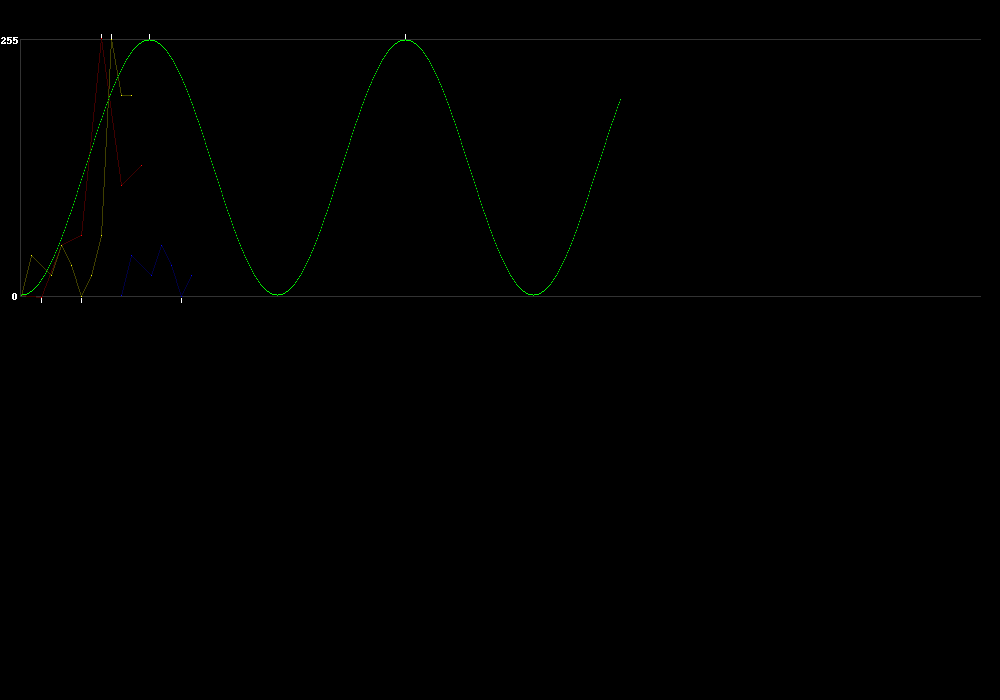
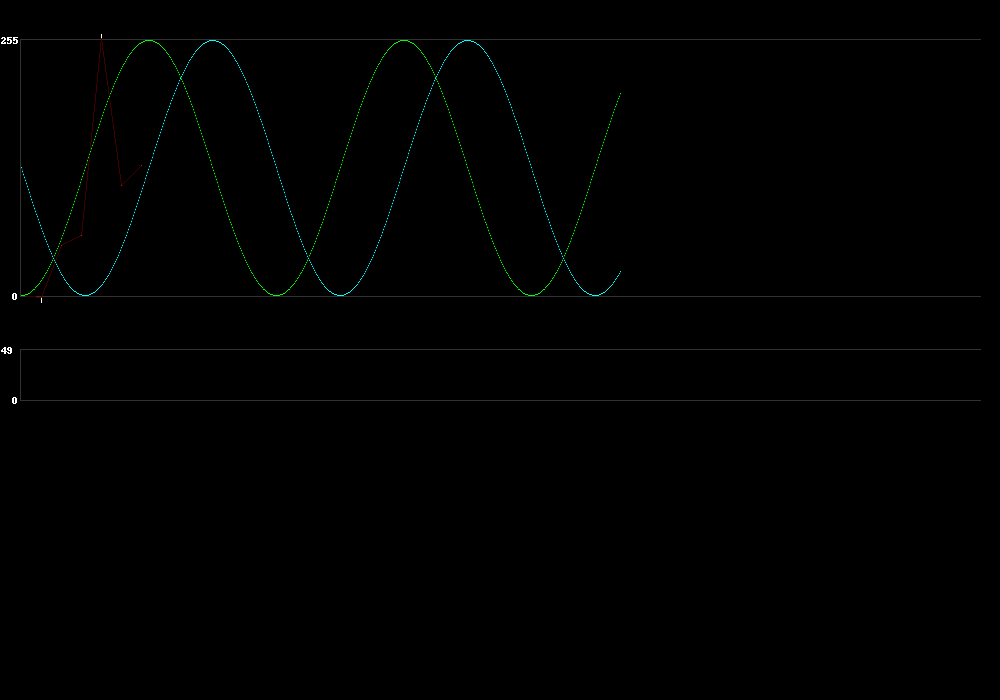
Drawing library rewrited with object oriented

Changed region(s): [[0.031, 0.36, 0.062, 0.39]]

diff --git a/main.py b/main.py
@@ -1,6 +1,7 @@
 from ctypes import *
 
 import neopixel_image
+from neopixel import *
 import math
 
 #bool_ 	Boolean (True or False) stored as a byte
@@ -50,17 +51,21 @@ def qadd7(i, j):
         t = 127;
     return t;
 
-print (qadd8(255, 5));
-i = c_ushort(-3);
-print (i);
+#print (qadd8(255, 5));
+#i = c_ushort(-3);
+#print (i);
 
 
 def cos8(value):
-  return int(math.cos(float(value)/128*math.pi+math.pi)*128)+128
-#return int(math.cos(float(value)/128))
+  return int(round(math.cos(float(value)/127.5*math.pi+math.pi)*127.5+127.5))
 
 def sin8(value):
-  return int(math.sin(float(value)/128*math.pi+math.pi)*128)+128
+  return int(round(math.sin(float(value)/127.5*math.pi+math.pi)*127.5+127.5))
+
+def RGBColor(r, g, b):
+        return Color(r, g, b)
+
+stripLen = 50
 
 ax = neopixel_image.Axis(256, 40)
 
@@ -73,36 +78,15 @@ pixR.putPixelCoord((80, 257))
 pixR.putPixelCoord((100, 110))
 pixR.putPixelCoord((120, 130))
 
-pixG = neopixel_image.Graph(ax, (255, 255, 0))
-pixG.putPixelCoord((0, 0))
-pixG.putPixelCoord((10, 40))
-pixG.putPixelCoord((30, 20))
-pixG.putPixelCoord((40, 50))
-pixG.putPixelCoord((50, 30))
-pixG.putPixelCoord((60, -1))
-pixG.putPixelCoord((70, 20))
-pixG.putPixelCoord((80, 60))
-pixG.putPixelCoord((90, 256))
-pixG.putPixelCoord((100, 200))
-pixG.putPixelCoord((110, 200))
-
-pixB = neopixel_image.Graph(ax, (0, 0, 255))
-pixB.putPixelCoord((100, 0))
-pixB.putPixelCoord((110, 40))
-pixB.putPixelCoord((130, 20))
-pixB.putPixelCoord((140, 50))
-pixB.putPixelCoord((150, 30))
-pixB.putPixelCoord((160, -1))
-pixB.putPixelCoord((170, 20))
-
 pixG = neopixel_image.Graph(ax, (0, 255, 0))
 for i in range(600):
                 pixG.putPixel(cos8(i))
 
+pixZ = neopixel_image.Graph(ax, (0, 255, 255))
+for i in range(600):
+                pixZ.putPixel(sin8(i))
 
-#pixZ = neopixel_image.Graph(ax, (0, 255, 255))
-#for i in range(600):
-#                pixZ.putPixel(sin8(i))
+pxls = neopixel_image.Axis(stripLen, 350)
 
 neopixel_image.saveImage()
 

diff --git a/neopixel_image.py b/neopixel_image.py
@@ -87,6 +87,21 @@ class Graph:
         self.lastPixelCoord = coord
 #------------------------------------------------------------------------------------------------#
 #------------------------------------------------------------------------------------------------#
+class Pixels:
+    def __init__(self,  axis):
+        self.axis = axis
+        self.currXPos = 0
+        
+    def putPixel (self,  y):
+        self.putPixelCoord((self.currXPos, y))
+        self.currXPos = self.currXPos + 1
+        
+    def putPixelCoord (self, coord,  color ):
+        realCoord = self.axis.realCoords(coord)
+        
+        im.putpixel(realCoord, color)
+#------------------------------------------------------------------------------------------------#
+#------------------------------------------------------------------------------------------------#
 def saveImage():
     im.save(imageName,  imageFormat)
 

diff --git a/README.md b/README.md
@@ -6,3 +6,13 @@ I wuold like to have such posibility to control led with RaspberyPy. For this pu
 So, i will try to rewrite main maths/controls functions in Python.
 
 For testing FastLed into grafichs (image file) is used python PIL library, which, i think, usualy is installed by default.
+
+it is required Neopixel library for python (https://learn.adafruit.com/neopixels-on-raspberry-pi/software)
+0. sudo apt-get install python-pip
+0. sudo apt-get install build-essential python-dev git scons swig
+1. Download sources from: git clone https://github.com/jgarff/rpi_ws281x.git
+cd rpi_ws281x
+scons
+cd python
+sudo python setup.py install
+
